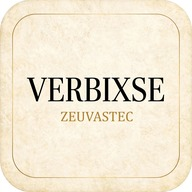
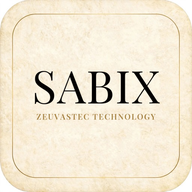
Renomeia o app para Sabix: Quiz Bíblico
Troca o nome VERBIXSE ZEUVASTEC por Sabix: Quiz Bíblico nas telas, no manifest, na política de privacidade e nos ícones, mantendo a marca Zeuvastec Technology. Pacote, assetlinks e chaves internas não mudam.

Claude-Session: https://claude.ai/code/session_01DLUJrAhVkqmi9bQm1g7Bhn

Changed region(s): [[0.125, 0.3438, 0.875, 0.6562]]

diff --git a/privacidade.html b/privacidade.html
@@ -3,7 +3,7 @@
 <head>
 <meta charset="UTF-8">
 <meta name="viewport" content="width=device-width, initial-scale=1.0">
-<title>Política de Privacidade - VERBIXSE</title>
+<title>Política de Privacidade - Sabix: Quiz Bíblico</title>
 <style>
 body{font-family:Arial,sans-serif;background:#0a0a0a;color:#e5e5e5;margin:0;padding:0;line-height:1.6}
 .container{max-width:800px;margin:0 auto;padding:40px 20px}
@@ -18,17 +18,17 @@ strong{color:#fff}
 </head>
 <body>
 <div class="container">
-<h1>VERBIXSE ZEUVASTEC</h1>
-<p class="subtitle">Política de Privacidade - Atualizada em 20 de setembro de 2026</p>
+<h1>Sabix: Quiz Bíblico</h1>
+<p class="subtitle">Política de Privacidade - Atualizada em 11 de outubro de 2026</p>
 
 <div class="card">
 <h2>1. Introdução</h2>
-<p>Esta Política de Privacidade descreve como o aplicativo <strong>VERBIXSE ZEUVASTEC - Jogo de Perguntas Bíblicas</strong>, desenvolvido por <strong>ZEUVASTEC</strong>, trata as informações de quem o usa. Ao usar o app, você concorda com esta política.</p>
+<p>Esta Política de Privacidade descreve como o aplicativo <strong>Sabix: Quiz Bíblico</strong> (antes chamado VERBIXSE ZEUVASTEC), desenvolvido por <strong>Zeuvastec Technology</strong>, trata as informações de quem o usa. Ao usar o app, você concorda com esta política.</p>
 </div>
 
 <div class="card">
 <h2>2. Como o app funciona</h2>
-<p>O VERBIXSE é um jogo de perguntas e respostas bíblicas, com o modo <strong>Solo</strong> e o modo <strong>Multiplayer</strong>, em que você joga com amigos em uma sala. O app abre o nosso site em uma janela do navegador do aparelho. <strong>Não há cadastro, login nem conta de usuário</strong>, e não pedimos e-mail, telefone ou senha.</p>
+<p>O Sabix é um jogo de perguntas e respostas bíblicas, com o modo <strong>Solo</strong> e o modo <strong>Multiplayer</strong>, em que você joga com amigos em uma sala. O app abre o nosso site em uma janela do navegador do aparelho. <strong>Não há cadastro, login nem conta de usuário</strong>, e não pedimos e-mail, telefone ou senha.</p>
 </div>
 
 <div class="card">
@@ -83,7 +83,7 @@ strong{color:#fff}
 
 <div class="card">
 <h2>9. Seus direitos (LGPD)</h2>
-<p>Conforme a Lei Geral de Proteção de Dados do Brasil (LGPD), você tem direito de acessar, corrigir e excluir seus dados. Como as informações do app ficam no seu aparelho, você pode apagar tudo desinstalando o app ou limpando os dados dele em Configurações &gt; Apps &gt; VERBIXSE &gt; Armazenamento.</p>
+<p>Conforme a Lei Geral de Proteção de Dados do Brasil (LGPD), você tem direito de acessar, corrigir e excluir seus dados. Como as informações do app ficam no seu aparelho, você pode apagar tudo desinstalando o app ou limpando os dados dele em Configurações &gt; Apps &gt; Sabix &gt; Armazenamento.</p>
 </div>
 
 <div class="card">
@@ -98,7 +98,7 @@ Site: <strong>https://verbixse-zeuvastec-8y8y.vercel.app</strong></p>
 <p>Podemos atualizar esta política periodicamente. As mudanças serão publicadas nesta página, e a data de atualização no topo será alterada.</p>
 </div>
 
-<p class="footer">© 2026 ZEUVASTEC - Todos os direitos reservados.<br>Esta política se aplica ao aplicativo VERBIXSE ZEUVASTEC.</p>
+<p class="footer">© 2026 ZEUVASTEC - Todos os direitos reservados.<br>Esta política se aplica ao aplicativo Sabix: Quiz Bíblico.</p>
 
 </div>
 </body>

diff --git a/main.js b/main.js
@@ -1,5 +1,5 @@
 /* ============================================================
-   VERBIXSE — estado global, roteador de telas e tela inicial.
+   SABIX — estado global, roteador de telas e tela inicial.
    ============================================================ */
 
 const App = {
@@ -55,10 +55,10 @@ function wireDeckSeals(onSelect) {
 function renderHeader(activeMode) {
   return `<header class="header">
     <div class="brand">
-      <img class="brand-seal" src="icon-192.png" alt="VERBIXSE ZEUVASTEC" />
+      <img class="brand-seal" src="icon-192.png" alt="Sabix: Quiz Bíblico" />
       <div>
-        <div class="brand-name">VERBIXSE <b>ZEUVASTEC</b></div>
-        <div class="brand-tag">Perguntas bíblicas</div>
+        <div class="brand-name">SABIX <b>QUIZ BÍBLICO</b></div>
+        <div class="brand-tag">Zeuvastec Technology</div>
       </div>
     </div>
     <div class="header-actions">
@@ -89,7 +89,7 @@ function renderHome() {
       ${renderHeader('solo')}
       <section class="hero">
         <div class="hero-badge">📜 <b>${QUESTIONS.length}</b> perguntas · ${DECKS.length} cartões (C001 a C027) · sem repetir conteúdo original</div>
-        <h1 style="font-size:32px; line-height:1.1; letter-spacing:-0.02em;">VERBIXSE ZEUVASTEC <br><span style="font-size:0.55em; font-weight:400; opacity:0.85; letter-spacing:0.08em;">Technology</span></h1>
+        <h1 style="font-size:32px; line-height:1.1; letter-spacing:-0.02em;">Sabix: Quiz Bíblico <br><span style="font-size:0.55em; font-weight:400; opacity:0.85; letter-spacing:0.08em;">Zeuvastec Technology</span></h1>
         <p>Responda sozinho no seu ritmo, ou desafie amigos em tempo real. Escolha um cartão específico ou jogue com todas as perguntas.</p>
         <div class="hero-actions">
           <button class="btn btn-primary" id="start-solo">▶ Jogar Solo · ${count}Q</button>
@@ -108,7 +108,7 @@ function renderHome() {
         <div class="feature"><h3>Efeitos</h3><p>Animações de acerto/erro e confete ao concluir um cartão.</p></div>
       </div>
 
-      <p class="footer-note">VERBIXSE ZEUVASTEC · ${QUESTIONS.length} perguntas · ${DECKS.length} cartões · conteúdo original preservado</p>
+      <p class="footer-note">Sabix: Quiz Bíblico · Zeuvastec Technology · ${QUESTIONS.length} perguntas · ${DECKS.length} cartões · conteúdo original preservado</p>
     </div>
   `;
   wireHeader();

diff --git a/solo.js b/solo.js
@@ -1,5 +1,5 @@
 /* ============================================================
-   VERBIXSE — modo Solo.
+   SABIX — modo Solo.
    ============================================================ */
 
 const SoloState = {
@@ -118,7 +118,7 @@ function renderSoloResult() {
   document.getElementById('play-again').addEventListener('click', () => startSolo());
   document.getElementById('back-home').addEventListener('click', () => setScreen('home'));
   document.getElementById('share-result').addEventListener('click', () => {
-    const text = `🏆 VERBIXSE ZEUVASTEC — Fiz ${SoloState.score}/${total} pontos (${pct}%) no cartão ${deckLabel(App.deckId)}!`;
+    const text = `🏆 Sabix: Quiz Bíblico — Fiz ${SoloState.score}/${total} pontos (${pct}%) no cartão ${deckLabel(App.deckId)}!`;
     if (navigator.share) navigator.share({ text }).catch(() => {});
     else { navigator.clipboard?.writeText(text); toast('Resultado copiado!'); }
   });

diff --git a/index.html b/index.html
@@ -3,7 +3,7 @@
 <head>
 <meta charset="UTF-8" />
 <meta name="viewport" content="width=device-width, initial-scale=1, viewport-fit=cover" />
-<title>VERBIXSE ZEUVASTEC — Perguntas Bíblicas</title>
+<title>Sabix: Quiz Bíblico</title>
 <meta name="description" content="Jogo de perguntas e respostas bíblicas. Jogue sozinho ou com amigos em tempo real, com som e efeitos visuais." />
 <meta name="theme-color" content="#14110d" />
 <link rel="manifest" href="manifest.json" />
@@ -12,8 +12,8 @@
 <link rel="stylesheet" href="style.css" />
 </head>
 <body>
-<div id="startup-splash" role="status" aria-label="Carregando VERBIXSE ZEUVASTEC">
-  <img src="icon-192.png" alt="VERBIXSE ZEUVASTEC" />
+<div id="startup-splash" role="status" aria-label="Carregando Sabix: Quiz Bíblico">
+  <img src="icon-192.png" alt="Sabix: Quiz Bíblico" />
 </div>
 <div id="app"></div>
 

diff --git a/app.js b/app.js
@@ -1,5 +1,5 @@
 /* ============================================================
-   VERBIXSE — motor do jogo (vanilla JS, sem dependências de build).
+   SABIX — motor do jogo (vanilla JS, sem dependências de build).
    As perguntas em questions.js são usadas exatamente como estão
    — nenhum texto, opção ou resposta é alterado neste arquivo.
    ============================================================ */

diff --git a/style.css b/style.css
@@ -1,5 +1,5 @@
 /* ============================================================
-   VERBIXSE — novo build. Paleta "manuscrito à luz de vela":
+   SABIX — novo build. Paleta "manuscrito à luz de vela":
    fundo quase-preto quente, pergaminho, selo de cera dourado,
    verdete (musgo) para acerto, vinho para erro.
    ============================================================ */

diff --git a/multiplayer.js b/multiplayer.js
@@ -1,5 +1,5 @@
 /* ============================================================
-   VERBIXSE — modo Multiplayer (PeerJS / WebRTC).
+   SABIX — modo Multiplayer (PeerJS / WebRTC).
 
    Princípio de design (corrige a classe de bug do jogo original):
    - O baralho (deck) é definido UMA vez pelo anfitrião e enviado

diff --git a/service-worker.js b/service-worker.js
@@ -1,4 +1,4 @@
-const CACHE_NAME = 'verbixse-zeuvastec-v3';
+const CACHE_NAME = 'verbixse-zeuvastec-v4';
 const APP_FILES = [
   './', './index.html', './style.css',
   './questions.js', './app.js', './solo.js', './multiplayer.js', './multiplayer-ui.js', './main.js',

diff --git a/multiplayer-ui.js b/multiplayer-ui.js
@@ -1,5 +1,5 @@
 /* ============================================================
-   VERBIXSE — telas do modo Multiplayer.
+   SABIX — telas do modo Multiplayer.
    ============================================================ */
 
 function renderMultiLobby() {

diff --git a/capacitor.config.ts b/capacitor.config.ts
@@ -2,7 +2,7 @@ import type { CapacitorConfig } from '@capacitor/cli';
 
 const config: CapacitorConfig = {
   appId: 'com.zeuvastec.verbixse',
-  appName: 'VERBIXSE ZEUVASTEC',
+  appName: 'Sabix',
   webDir: '.',
   bundledWebRuntime: false
 };

diff --git a/capacitor_config.ts b/capacitor_config.ts
@@ -2,7 +2,7 @@ import type { CapacitorConfig } from '@capacitor/cli';
 
 const config: CapacitorConfig = {
   appId: 'com.zeuvastec.verbixse',
-  appName: 'VERBIXSE ZEUVASTEC',
+  appName: 'Sabix',
   webDir: '.',
   bundledWebRuntime: false
 };

diff --git a/README.md b/README.md
@@ -1,4 +1,4 @@
-# 📜 VERBIXSE Trivia
+# 📜 Sabix: Quiz Bíblico
 
 Jogo de perguntas e respostas bíblicas, em português, com modo **Solo** e **Multiplayer em tempo real**.
 
